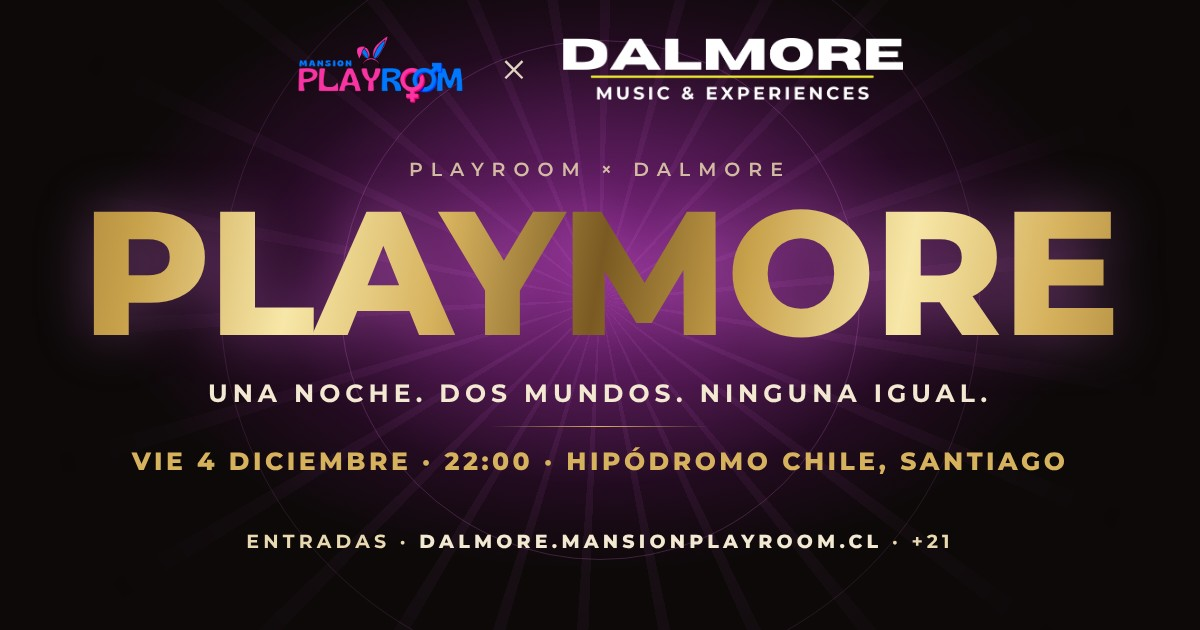
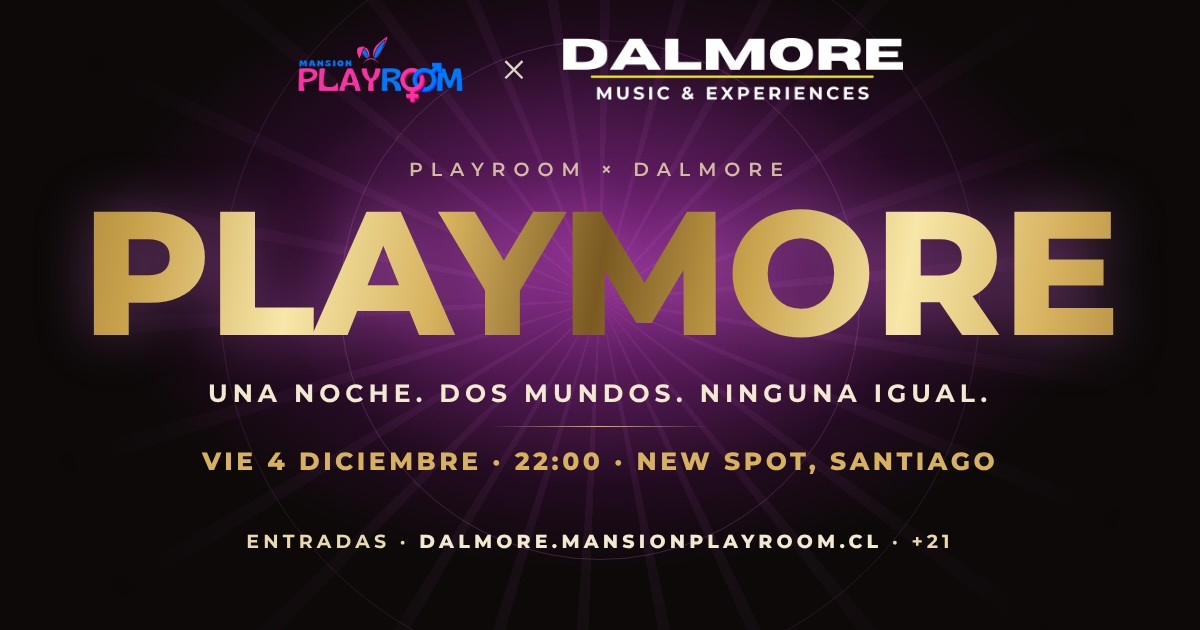
PLAYMORE: el lugar es NEW SPOT, Santiago (dirección exacta solo por correo)
Claude-Session: https://claude.ai/code/session_01CfeaKR9YwJutF7tzhpKgf4

Changed region(s): [[0.0925, 0.6937, 0.8942, 0.754]]

diff --git a/shared/coproduction.ts b/shared/coproduction.ts
@@ -66,9 +66,9 @@ export interface CoproductionLanding {
 export const DEFAULT_LANDING: CoproductionLanding = {
   title: 'Playroom × Dalmore',
   headline: 'Las dos productoras liberales más grandes, una sola noche.',
-  subheadline: 'Un salón gigante en el Hipódromo de Santiago, dos pistas de energía y la experiencia Playroom con la comunidad de Dalmore.',
+  subheadline: 'Un salón gigante en NEW SPOT, Santiago: dos pistas de energía y la experiencia Playroom con la comunidad de Dalmore.',
   dateText: 'Viernes 4 de diciembre',
-  venueText: 'Hipódromo Chile, Santiago',
+  venueText: 'NEW SPOT, Santiago',
   capacityText: 'Aforo para 800 personas',
   capacity: 800,
   heroImageUrl: '',
@@ -95,6 +95,7 @@ export const DEFAULT_LANDING: CoproductionLanding = {
     'El equipo puede retirar a quien no respete las reglas, sin devolución.',
   ],
   faq: [
+    { q: '¿Dónde es?', a: 'En NEW SPOT, un lugar exclusivo para PLAYMORE en Santiago. La dirección exacta te llega por correo junto con tu entrada.' },
     { q: '¿Dónde compro las entradas?', a: 'Solo en esta página. No vendemos por transferencia ni por Instagram.' },
     { q: '¿Cuándo me llega la dirección exacta?', a: 'Te llega por correo junto con tu entrada, después de comprar.' },
     { q: '¿Puedo ir sola o solo?', a: 'Sí. Mucha gente llega así y conoce gente adentro.' },
